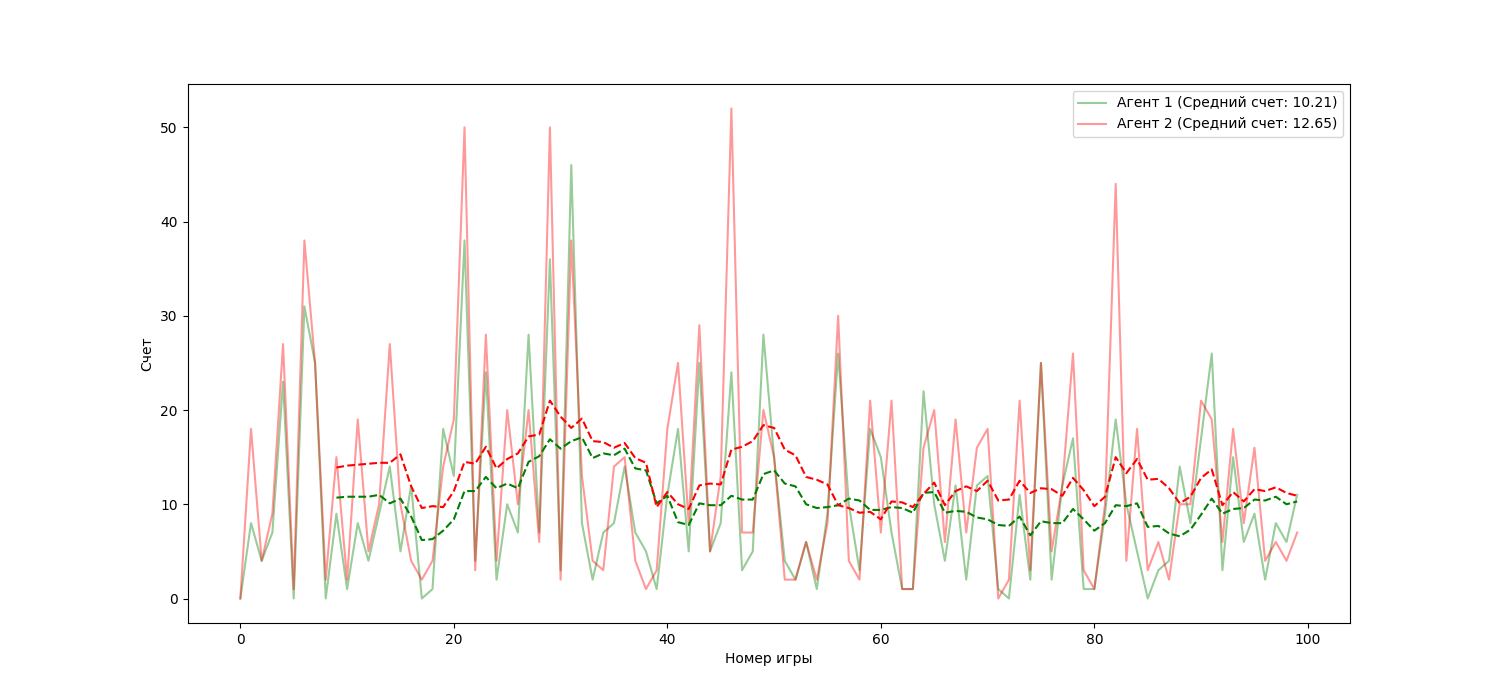
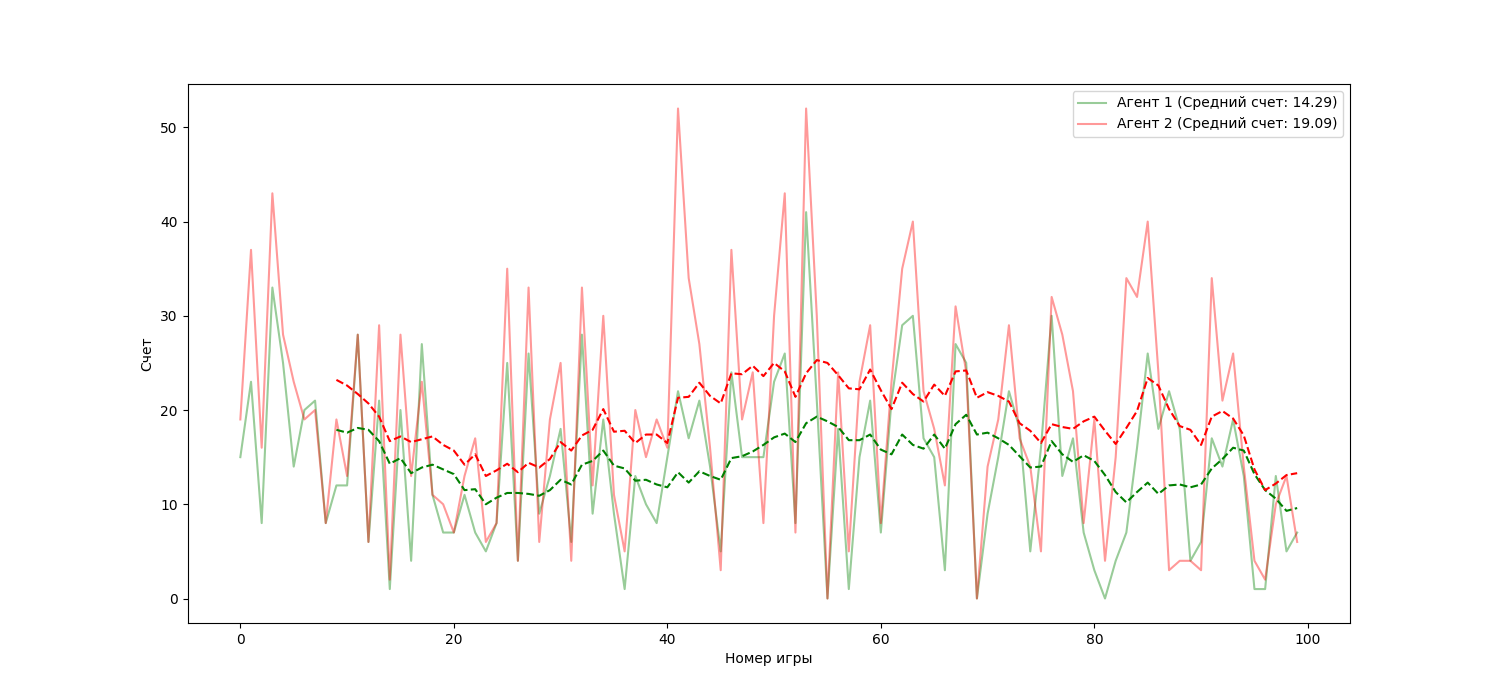
updated gameplay for duo play

Changed region(s): [[0.1533, 0.18, 0.8893, 0.87], [0.8587, 0.15, 0.8893, 0.18], [0.1533, 0.3, 0.184, 0.33]]

diff --git a/static/assets/js/Game.js b/static/assets/js/Game.js
@@ -260,7 +260,7 @@ class Game {
       snakeTail: [
         [this.arena.objectsWeight * 20, this.arena.arenaHeight - (this.arena.objectsWeight * 14)],
         [this.arena.objectsWeight * 19, this.arena.arenaHeight - (this.arena.objectsWeight * 14)]
-    ],
+      ],
       snakeDirection: "right"
     })
     this.snake2 = new Snake({
@@ -272,7 +272,7 @@ class Game {
       snakeTail: [
         [this.arena.arenaWidth - (this.arena.objectsWeight * 20), (this.arena.objectsWeight * 14)],
         [this.arena.arenaWidth - (this.arena.objectsWeight * 19), (this.arena.objectsWeight * 14)]
-    ],
+      ],
       snakeDirection: "left"
     })
     this.foodCounterElem = document.querySelector('#game-toolbar-score-counter')
@@ -606,6 +606,15 @@ class Game {
           result[2] = 1
         }
       })
+      if (snake2.snakeHeadX === snake.snakeHeadX & snake2.snakeHeadY === snake.snakeHeadY - 2*this.arena.objectsWeight) {
+        result[0] = 1
+      }
+      if (snake2.snakeHeadX === snake.snakeHeadX - 2*this.arena.objectsWeight & snake2.snakeHeadY === snake.snakeHeadY) {
+        result[1] = 1
+      }
+      if (snake2.snakeHeadX === snake.snakeHeadX + 2*this.arena.objectsWeight & snake2.snakeHeadY === snake.snakeHeadY) {
+        result[2] = 1
+      }
     }
     if (snake.snakeDirection === 'bottom') {
       if (snake.snakeHeadY === this.arena.arenaHeight - this.arena.objectsWeight) {
@@ -639,6 +648,15 @@ class Game {
           result[2] = 1
         }
       })
+      if (snake2.snakeHeadX === snake.snakeHeadX & snake2.snakeHeadY === snake.snakeHeadY + 2*this.arena.objectsWeight) {
+        result[0] = 1
+      }
+      if (snake2.snakeHeadX === snake.snakeHeadX + 2*this.arena.objectsWeight & snake2.snakeHeadY === snake.snakeHeadY) {
+        result[1] = 1
+      }
+      if (snake2.snakeHeadX === snake.snakeHeadX - 2*this.arena.objectsWeight & snake2.snakeHeadY === snake.snakeHeadY) {
+        result[2] = 1
+      }
     }
     if (snake.snakeDirection === 'left') {
       if (snake.snakeHeadX === 0) {
@@ -672,6 +690,15 @@ class Game {
           result[2] = 1
         }
       })
+      if (snake2.snakeHeadX === snake.snakeHeadX - 2*this.arena.objectsWeight & snake2.snakeHeadY === snake.snakeHeadY) {
+        result[0] = 1
+      }
+      if (snake2.snakeHeadX === snake.snakeHeadX & snake2.snakeHeadY === snake.snakeHeadY + 2*this.arena.objectsWeight) {
+        result[1] = 1
+      }
+      if (snake2.snakeHeadX === snake.snakeHeadX & snake2.snakeHeadY === snake.snakeHeadY - 2*this.arena.objectsWeight) {
+        result[2] = 1
+      }
     }
     if (snake.snakeDirection === 'right') {
       if (snake.snakeHeadX === this.arena.arenaWidth - this.arena.objectsWeight) {
@@ -705,6 +732,15 @@ class Game {
           result[2] = 1
         }
       })
+      if (snake2.snakeHeadX === snake.snakeHeadX + 2*this.arena.objectsWeight & snake2.snakeHeadY === snake.snakeHeadY) {
+        result[0] = 1
+      }
+      if (snake2.snakeHeadX === snake.snakeHeadX & snake2.snakeHeadY === snake.snakeHeadY - 2*this.arena.objectsWeight) {
+        result[1] = 1
+      }
+      if (snake2.snakeHeadX === snake.snakeHeadX & snake2.snakeHeadY === snake.snakeHeadY + 2*this.arena.objectsWeight) {
+        result[2] = 1
+      }
     }
     return result
   }

diff --git a/static/assets/css/styles.css b/static/assets/css/styles.css
@@ -53,8 +53,8 @@ body {
 }
 
 .preview {
-  visibility: hidden;
-  opacity: 0;
+  visibility: visible;
+  opacity: 1;
   width: 100%;
   height: 100%;
   transition: all .7s;
@@ -79,6 +79,18 @@ body {
   font-family: '04b', 'Roboto', sans-serif;
   color: rgb(74, 129, 127);
   text-shadow: 0px 3px 3px rgb(255, 255, 255);
+  user-select: none;
+  cursor: default;
+  pointer-events: none;
+}
+
+.preview-content h4 {
+  font-size: 2em;
+  text-transform: uppercase;
+  font-family: '04b', 'Roboto', sans-serif;
+  color: rgb(74, 129, 127);
+  text-shadow: 0px 1px 2px rgb(255, 255, 255);
+  margin-top: 30px;
   user-select: none;
   cursor: default;
   pointer-events: none;

diff --git a/static/pages/notsupported.html b/static/pages/notsupported.html
@@ -4,9 +4,9 @@
   <meta charset="UTF-8">
   <meta http-equiv="X-UA-Compatible" content="IE=edge">
   <meta name="viewport" content="width=device-width, initial-scale=1.0">
-  <title>Snake</title>
+  <title>SNAKE BATTLE 2D</title>
 </head>
 <body>
-  <p>Your browser is not supported!</p>
+  <p>Please enable JavaScript!</p>
 </body>
 </html>

diff --git a/static/pages/main.html b/static/pages/main.html
@@ -36,7 +36,6 @@
       <canvas id="canvas" width="1100" height="700"></canvas>
     </div>
   </div>
-  <!-- Socket IO сделать доступным локально -->
   <script src="/assets/js/socket.io.min.js"></script>
   <script src="/assets/js/Game.js"></script>
   <script src="/assets/js/main.js"></script>

diff --git a/Graph.py b/Graph.py
@@ -10,17 +10,7 @@ def createGraph(agent1, agent2):
     'Agent 2': agent2
   })
 
-  window_size = 0
-  if n_games == 100:
-    window_size = 10
-  elif n_games == 1000:
-    window_size = 100
-  elif n_games == 1500:
-    window_size = 150
-  elif n_games == 2000:
-    window_size = 200
-  else:
-    window_size = max(10, int(0.1 * n_games))
+  window_size = max(10, int(0.1 * n_games))
   
   rolling_agent1 = df['Agent 1'].rolling(window=window_size).mean()
   rolling_agent2 = df['Agent 2'].rolling(window=window_size).mean()
@@ -33,4 +23,4 @@ def createGraph(agent1, agent2):
   plt.legend([f'Агент 1 (Средний счет: {average_score1:.2f})', f'Агент 2 (Средний счет: {average_score2:.2f})'])
   plt.xlabel('Номер игры')
   plt.ylabel('Счет')
-  plt.savefig(f"graphs/games_{n_games}.png")
+  plt.savefig(f"graphs/graph_{n_games}.png")

diff --git a/app.py b/app.py
@@ -18,12 +18,12 @@ app.config['SECRET_KEY'] = 'b57558e3-2a61-44fc-b338-f3d1febf2a56'
 # ms
 gameIterationDelay = 30
 
-# Net
+# Net Trained
 model1 = LinearQNetModel(35, 28, 3)
 model2 = LinearQNetModel2(15, 256, 3)
 
-model1.load_state_dict(torch.load("models/model1.pth"))
-model2.load_state_dict(torch.load("models/model2.pth"))
+model1.load_state_dict(torch.load("models/model1-35_28-final.pth"))
+model2.load_state_dict(torch.load("models/model2-15_256-final.pth"))
 
 # Agents
 agent1 = Agent(model1, 0)
@@ -78,8 +78,8 @@ def game_reward_handler(response):
 
     if len(agent1_scores) == 100:
       Graph.createGraph(agent1_scores, agent2_scores)
-    if len(agent1_scores) == 1000:
-      Graph.createGraph(agent1_scores, agent2_scores)
+      print("Agent1 scores: ", agent1_scores)
+      print("Agent2 scores: ", agent2_scores)
       
 
     print('Game', agent1.nGames)

diff --git a/Model.py b/Model.py
@@ -81,8 +81,6 @@ class QTrainer:
         Q_new = reward[idx] + self.gamma * torch.max(self.model(nextState[idx]))
       
       target[idx][torch.argmax(action[idx]).item()] = Q_new
-
-    # 2: Q_new = r + y * max(next_predicted Q value)
     
     self.optimizer.zero_grad()
     loss = self.criterion(target, pred)
